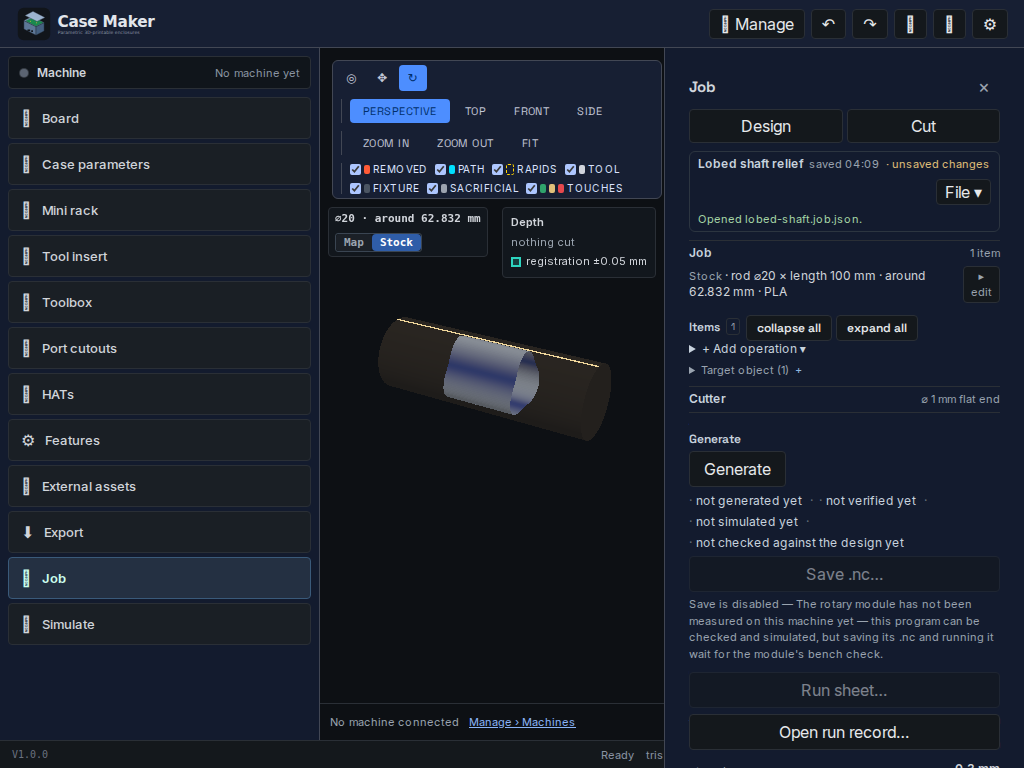
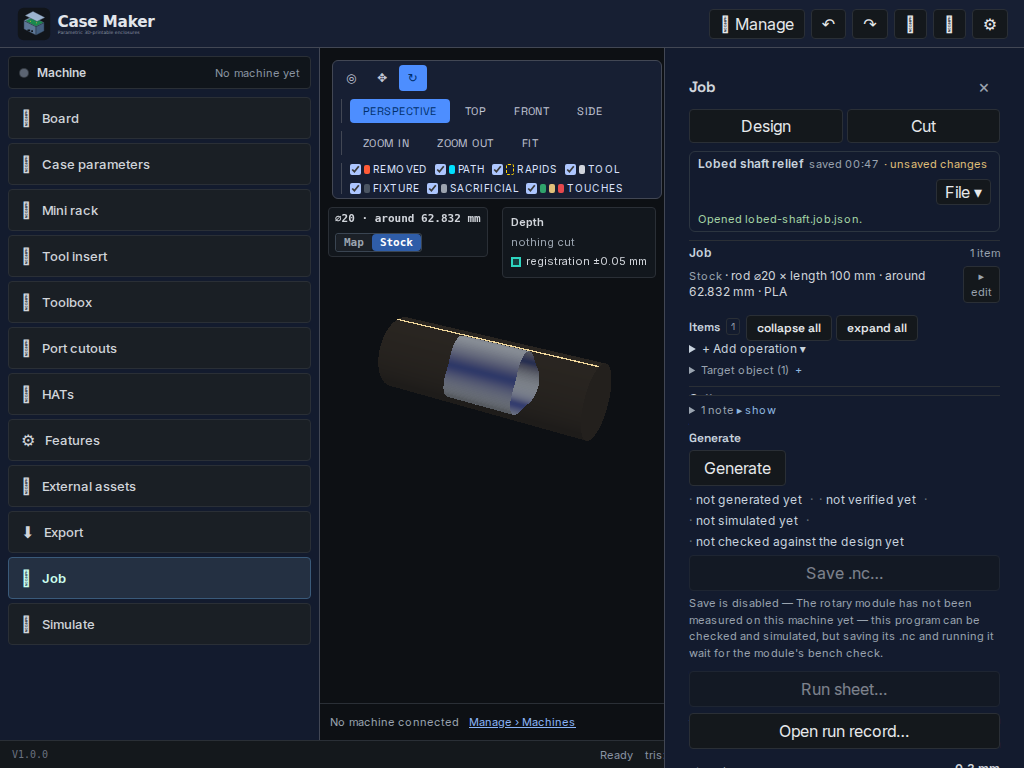
fix(rotary): a clipped relief is cut to the rod, never above it (#808)
Slice 2 of #786 demoted goal-rotary-oversize to a warning that cuts what fits,
but the field still held every hit PAST the rod (z = r − R > 0): the finishing
tip field rode at that height, the post saw cutting moves above the stock and
refused the program ("move 1177: a cutting move at Z=10.4814 is above the
stock's surface"). The comment at the warning claimed the field was already
clipped to the rod; it was not.

THE FIELD IS CLIPPED NOW: `record` stores a hit beyond the surface AT the
surface (z = 0), so the tip field can never plan above the rod, and the
finishing pass cuts the oversize crests flat at the rod's radius — the most the
stock can carry. The TRUE reach is still tracked (`maxRadius`), which is what
the warning names ("the outermost 2 mm of the goal is not reproduced").

The reach check's rotary guard is 47's, already on main (b6236c43); this slice
depends on it and adds the CAM half.

Tests: a new acceptance case cuts r = 8 + 4·cos 3θ (crests at 12 mm on a ⌀20
rod) with the ⌀1 flat, and pins that Generate returns ok, posts, warns with the
2 mm the rod cannot carry, and that no G1 after the spindle starts commands Z
above 10; the field is asserted at or below the surface everywhere.

The e2e's oversize test moves to the new behaviour: the part is drawn, the
warning's sentence is read from the job's findings (the rows the run sheet
prints) with step 1's fold opened first, the program posts, and the screenshot
is renamed to "oversize-clipped-with-warning.png".
[…]

diff --git a/casemaker-app/tests/e2e/rotaryReliefPreview.spec.ts b/casemaker-app/tests/e2e/rotaryReliefPreview.spec.ts
@@ -357,8 +357,20 @@ test('the relief draws on the map and the rod, and cuts to the program the sheet
 
   // ── The Map view (the default): the field unrolled, x along, the arc around. ──
   await expect(page.getByTestId('rotary-view-map')).toHaveAttribute('aria-pressed', 'true');
-  // The preview worker builds asynchronously; poll rather than trusting one read.
-  await expect.poll(async () => (await goalDrawState(page)).count, { timeout: 60_000 }).toBeGreaterThan(200);
+  // #808 — THE DEPTH RAMP IS A FRAME OR TWO BEHIND THE SHEET. Polling `count` alone once passed
+  // with the sheet drawn but the ramp not yet applied, and the lobe measure below then read a
+  // flat band (about 1 run in 3: 3.9 s, alternations 2). Poll the DISCRIMINATING measure — the
+  // lobes' swings and the colour spread — until the rendered picture reads, within a deadline;
+  // no sleep, and a picture that never renders still fails at the deadline.
+  await expect
+    .poll(
+      async () => {
+        const s = await goalDrawState(page);
+        return s.count > 200 && s.alternations >= 4 && s.spread > 8;
+      },
+      { timeout: 60_000 },
+    )
+    .toBe(true);
   const map = await goalDrawState(page);
   // THE LOBES MUST READ. Three crests around the map's arc are several brightness swings in the
   // row-mean profile — a uniform band (the defect the manager saw) measures zero.
@@ -369,7 +381,16 @@ test('the relief draws on the map and the rod, and cuts to the program the sheet
   // ── The Stock view: the SAME buffer wrapped onto the rod, so the lobes turn with it. ──
   await page.getByTestId('rotary-view-stock').click();
   await expect(page.getByTestId('rotary-view-stock')).toHaveAttribute('aria-pressed', 'true');
-  await expect.poll(async () => (await goalDrawState(page)).count, { timeout: 30_000 }).toBeGreaterThan(200);
+  // The same race on the rod view: wait for the ramp's colours, not only the sheet's pixels.
+  await expect
+    .poll(
+      async () => {
+        const s = await goalDrawState(page);
+        return s.count > 200 && s.spread > 8;
+      },
+      { timeout: 30_000 },
+    )
+    .toBe(true);
   const stock = await goalDrawState(page);
   expect(stock.count, 'the relief is drawn on the rod').toBeGreaterThan(200);
   expect(stock.count, 'a different view of the part, not the map again').not.toBe(map.count);
@@ -475,20 +496,34 @@ test('the relief draws on the map and the rod, and cuts to the program the sheet
   expect(state.removedVolume).toBeGreaterThan(0);
 });
 
-test('a part wider than the rod is refused by name and STILL drawn beside the refusal', async ({ cm, page }) => {
+test('a part wider than the rod is clipped to it, warned on the run sheet, and STILL drawn', async ({ cm, page }) => {
   await cm.ready();
   await openReliefJob(page, reliefJob('Oversize lobes', 12), 'oversize-lobes');
 
-  // The generator refuses the part: its lobes reach 12 mm on a ⌀20 rod.
+  // #808 — the lobes reach 12 mm on a ⌀20 rod. #786 slice 2 demoted the oversize refusal to a
+  // warning that cuts what fits, so Generate now POSTS: the part's crests are cut flat at the
+  // rod's surface, and no cutting move rides above it (the post would refuse if one did).
   await assertGenerateEnabled(page);
   await page.getByTestId('engrave-generate').click();
-  // The generator's own refusal sentence, where the Generate step shows it.
-  const refusal = page.getByText(/cannot be reproduced from this rod/i);
-  await expect(refusal).toBeVisible({ timeout: 120_000 });
-  await expect(refusal).toContainText(/reaches r 12 mm/);
-  // ...and the design's rule holds: the field still samples, so the part is drawn.
+  await page.waitForFunction(() => window.__caseMaker!.engraveProgramText() !== null, undefined, { timeout: 300_000 });
+
+  // The design's rule holds: the field still samples, so the clipped part is drawn.
   await expect.poll(async () => (await goalDrawState(page)).count, { timeout: 30_000 }).toBeGreaterThan(200);
   const drawn = await goalDrawState(page);
-  expect(drawn.count, 'a refused part is still drawn').toBeGreaterThan(200);
-  await shoot(page, 'oversize-refused-with-drawing.png');
+  expect(drawn.count, 'a clipped part is still drawn').toBeGreaterThan(200);
+
+  // The warning's home is the job's findings, which the run sheet prints: it states how much of
+  // the goal the rod cannot carry. (The sheet itself is not offered before registration is
+  // planned, so the Cut surface's own findings list is where this reads — the same rows the sheet
+  // prints, and the tally already counts them.)
+  await page.getByTestId('cnc-mode-cut').click();
+  await expect(page.getByTestId('engrave-cut-surface')).toBeVisible();
+  // Step 1's body folds away once the step is done; its summary opens it, then the findings fold.
+  await page.getByTestId('engrave-cut-step-1-summary').click();
+  await page.getByTestId('engrave-cut-details').locator('summary').click();
+  const warning = page.locator('[data-testid$="-goal-rotary-oversize"]');
+  await expect(warning).toBeVisible();
+  await expect(warning).toContainText(/reaches r 12 mm/i);
+  await expect(warning).toContainText(/outermost 2 mm of the goal is not reproduced/i);
+  await shoot(page, 'oversize-clipped-with-warning.png');
 });

diff --git a/casemaker-app/src/components/viewport/RotaryGoalSurface.tsx b/casemaker-app/src/components/viewport/RotaryGoalSurface.tsx
@@ -11,7 +11,7 @@
  * an opaque cylinder would hide exactly the thing the picture is for.
  */
 
-import { useEffect, useMemo } from 'react';
+import { useEffect, useMemo, useRef } from 'react';
 import * as THREE from 'three';
 
 import type { RotaryMap } from '@/engine/cnc/rotary/wrap';
@@ -28,11 +28,19 @@ export interface RotaryGoalSurfaceProps {
 
 export function RotaryGoalSurface({ job, rotary, wrapRadius }: RotaryGoalSurfaceProps) {
   const target = rotaryGoalTarget(job);
+  // #808 — THE BYTES ARRIVE AFTER THE HASH. `rotaryGoalTarget` is null while `target.data` is
+  // undefined (#720 keeps the bytes in a blob store and re-attaches them asynchronously), and its
+  // deps below are the hash, the placement and the radius — none of which changes when the bytes
+  // arrive. Without this flag the memo kept its cached null and the goal never drew on the map:
+  // the #723 R-4 e2e's 1-in-3 flat sheet (the target was loaded and the preview `ready`; the
+  // surface had simply never been sampled).
+  const hasTarget = target !== null;
   const field = useMemo(
     () => (target === null ? null : rotaryGoalPreviewField(target, rotary.radius)),
     // The mesh and its placement, not the whole job: a label edit must not resample a large mesh.
+    // `hasTarget` is the bytes' arrival, which the other keys cannot see (#808).
     // eslint-disable-next-line react-hooks/exhaustive-deps
-    [target?.sha256, target?.position, target?.scale, rotary.radius],
+    [hasTarget, target?.sha256, target?.position, target?.scale, rotary.radius],
   );
   const mapGeom = useMemo(() => (field === null ? null : rotaryGoalSurfaceGeometry(field)), [field]);
   const geometry = useMemo(
@@ -40,16 +48,28 @@ export function RotaryGoalSurface({ job, rotary, wrapRadius }: RotaryGoalSurface
     [mapGeom, wrapRadius],
   );
 
-  // The map geometry is ours to dispose; a wrapped copy is a second buffer with its own lifetime.
-  useEffect(() => () => void mapGeom?.dispose(), [mapGeom]);
+  // #808 — DISPOSE REPLACED BUFFERS, NEVER THE LIVE ONE IN A CLEANUP. React StrictMode runs a
+  // mount's cleanup immediately after its setup, so disposing from an effect keyed to the live
+  // geometry deleted the buffer the mesh was still drawing with: the relief vanished from the map
+  // and the parts of the picture were gone until something re-rendered the tree (switching
+  // Stock | Map brought it back). Each buffer is freed when a NEW one replaces it; the last one is
+  // released with the canvas context, which lives as long as the app does.
+  const previousMap = useRef<THREE.BufferGeometry | null>(null);
   useEffect(() => {
-    const wrapped = geometry !== mapGeom ? geometry : null;
-    return () => void wrapped?.dispose();
+    const previous = previousMap.current;
+    previousMap.current = mapGeom;
+    if (previous !== null && previous !== mapGeom) previous.dispose();
+  }, [mapGeom]);
+  const previousGeometry = useRef<THREE.BufferGeometry | null>(null);
+  useEffect(() => {
+    const previous = previousGeometry.current;
+    previousGeometry.current = geometry;
+    if (previous !== null && previous !== mapGeom && previous !== geometry) previous.dispose();
   }, [geometry, mapGeom]);
 
   if (geometry === null) return null;
   return (
-    <mesh geometry={geometry} name="engrave-rotary-goal" renderOrder={3}>
+    <mesh geometry={geometry} name="engrave-rotary-goal" renderOrder={3} dispose={null}>
       {/* #723 R-4 review — the vertex colours carry the depth (crest pale, trough deep blue); the
           white base leaves them unmultiplied, and a little lift keeps the troughs legible under
           the stock's shadow. */}

diff --git a/casemaker-app/tests/unit/rotaryReliefAcceptance.spec.ts b/casemaker-app/tests/unit/rotaryReliefAcceptance.spec.ts
@@ -29,6 +29,7 @@ import { defaultEngraveJob } from '@/engine/cnc/engrave/defaults';
 import { flatEndMill } from '@/engine/cnc/tool';
 import { buildTimeline, parseGcode, stubSetup, Z1, type Setup } from '@/engine/cnc';
 import { verifyProgram } from '@/engine/cnc/verify';
+import { sampleGoalRadialField } from '@/engine/cnc/cam/rotaryRelief';
 import { columnSweep } from '@/workers/geometry/columnEngine';
 import type { EngraveJob, EngraveTargetObject } from '@/types/engraveJob';
 
@@ -261,5 +262,49 @@ describe('#723 R-4 acceptance — the relief is cut to its closed form', () => {
       }
     }
     expect(untouched, 'the uncovered half of the rod is left standing').toBe(true);
+  });
+
+  it('a goal reaching past the rod is clipped to it, warns, and posts no cut above the rod (#808)', () => {
+    // r(θ) = 8 + 4·cos(3θ): the crests reach 12 mm on a ⌀20 rod, so the outermost 2 mm of the
+    // part has no material. #786 slice 2 demoted this to a warning; before #808 the field kept the
+    // reach above the surface, the finishing tip rode at z ≈ +2 and the post refused the air cut.
+    const LENGTH = 20;
+    const rOf = (a: number): number => 8 + 4 * Math.cos(3 * a);
+    const target = goal(ringedSide((a) => rOf(a), LENGTH, 20, 144), LENGTH, 12);
+    // The STATED size fits the blank (the mesh is what is wider) — the e2e's own rule.
+    target.size = { x: LENGTH, y: 18, z: 18 };
+    const job = rotaryJob(target);
+    const flat = flatEndMill(1, { name: '1 mm flat end', fluteLength: 12, shoulderLength: 20 });
+
+    const out = engraveGenerate(tl, job, flat, [], null, undefined, {});
+    expect(out.errors.filter((e) => /above the stock/i.test(e.message)), 'no air-cut refusal').toEqual([]);
+    expect(out.ok).toBe(true);
+    if (!out.ok) return;
+    const warning = out.findings.find((f) => f.code === 'goal-rotary-oversize');
+    expect(warning?.severity).toBe('warning');
+    expect(warning?.message).toMatch(/reaches r 12/);
+    expect(warning?.message).toMatch(/outermost 2 mm/);
+    const program = out.programs[0]!;
+    expect(program.nc).toBeTruthy();
+
+    // THE POSTED PROGRAM: every CUTTING move is at or below the rod's surface. The rotary frame's
+    // Z is the radius above the axis, so no G1 after the spindle starts may command Z above 10;
+    // the preamble's own G01 positioning (before `M3`) is not a cut.
+    const lines = program.nc.split(/\r?\n/);
+    const spindleOn = lines.findIndex((line) => /^\s*M3\b/.test(line));
+    expect(spindleOn, 'the program starts its spindle').toBeGreaterThan(0);
+    const cutting = lines
+      .slice(spindleOn)
+      .map((line) => (/^\s*G0?1\b/.test(line) ? /Z([-+]?[0-9.]+)/.exec(line) : null))
+      .filter((m): m is RegExpExecArray => m !== null)
+      .map((m) => Number(m[1]));
+    expect(cutting.length, 'the program has cutting moves').toBeGreaterThan(100);
+    const highest = cutting.reduce((m, z) => Math.max(m, z), -Infinity);
+    expect(highest, 'no cutting move above the rod').toBeLessThanOrEqual(R + 1e-6);
+
+    // THE FIELD ITSELF: height at or below the surface everywhere, true reach still reported.
+    const field = sampleGoalRadialField(target, R, {});
+    expect(field.maxRadius).toBeGreaterThan(R);
+    for (let k = 0; k < field.z.length; k++) expect(field.z[k]).toBeLessThanOrEqual(1e-9);
   });
 });

diff --git a/casemaker-app/src/components/viewport/EngravePreview.tsx b/casemaker-app/src/components/viewport/EngravePreview.tsx
@@ -66,7 +66,6 @@ import { RotaryMapDecorations } from './RotaryMapDecorations';
 import { ROTARY_MAP_NARROW_PX } from './rotaryMapView';
 import { wrapMapGeometry } from './rotaryStockView';
 import { RotaryGoalSurface } from './RotaryGoalSurface';
-import { rotaryGoalTarget } from './rotaryGoalPreview';
 
 /** The same neutral wood tone the simulation's stock uses (#197). */
 const STOCK_COLOR = '#c9a26b';
@@ -808,7 +807,14 @@ export function EngravePreview() {
   // #723 R-3 — a goal on a rod is drawn from its radial field (both views), and the flat-framed
   // mesh the primitives layer would draw at `position.z` is not this job's picture: on a rod the
   // radius IS the height, and `position.z` is ignored.
-  const rotaryGoal = rotary !== null && rotaryGoalTarget(job) !== null;
+  //
+  // #808 — GHOSTING FOLLOWS THE JOB, NOT THE BYTES. `rotaryGoalTarget` is null until #720's blob
+  // store re-attaches the mesh, and a sheet ghosted from that answer stayed OPAQUE on the render
+  // before it — hiding the part once it arrived behind an opaque sheet's depth (the #723 R-4
+  // e2e's 1-in-3 blank map: the goal mesh was in the scene, visible, and never drew a pixel).
+  // The job stating a goal is what the ghosting is for, and that is known without the bytes.
+  const statedGoal = job.targetObject !== undefined && job.targetObject.enabled && (job.targetObject.role ?? 'reference') === 'goal';
+  const rotaryGoal = rotary !== null && statedGoal;
   const machine = useMachineStore((s) => s.machine);
   const target = machine === null ? null : { host: machine.host, port: machine.port };
   const machineKey = machine === null ? null : `${machine.host}:${machine.port}`;

diff --git a/casemaker-app/src/engine/cnc/cam/rotaryRelief.ts b/casemaker-app/src/engine/cnc/cam/rotaryRelief.ts
@@ -203,7 +203,11 @@ export function sampleGoalRadialField(
   const record = (idx: number, r: number): void => {
     if (r <= 0) return;
     if (covered[idx] === 0 || r > (z[idx] as number) + radius) {
-      z[idx] = r - radius;
+      // #808 — CLIPPED TO THE ROD. A hit past the rod's surface has no material to cut there, so
+      // the field holds it AT the surface (z = 0) rather than above it: a tip planned from a
+      // positive height would sit in the air and the post would refuse the program. The TRUE reach
+      // is still what `maxRadius` reports, which the oversize warning names.
+      z[idx] = Math.min(0, r - radius);
       covered[idx] = 1;
       if (r < minR) minR = r;
       if (r > maxR) maxR = r;

diff --git a/casemaker-app/src/engine/cnc/engrave/goalReach.ts b/casemaker-app/src/engine/cnc/engrave/goalReach.ts
@@ -26,8 +26,8 @@ import { vendorId } from '@/engine/cnc/tool';
 import type { ToolLibraryEntry } from '@/engine/cnc/toolLibrary';
 import type { EngraveJob, EngraveTargetObject } from '@/types/engraveJob';
 import type { JobFinding } from './jobSetup';
-import { rotaryMapOf } from '@/engine/cnc/rotary/wrap';
 import { jobTargetObjects } from './jobSetup';
+import { rotaryMapOf } from '@/engine/cnc/rotary/wrap';
 import { placedSize } from './targetScale';
 
 /**
